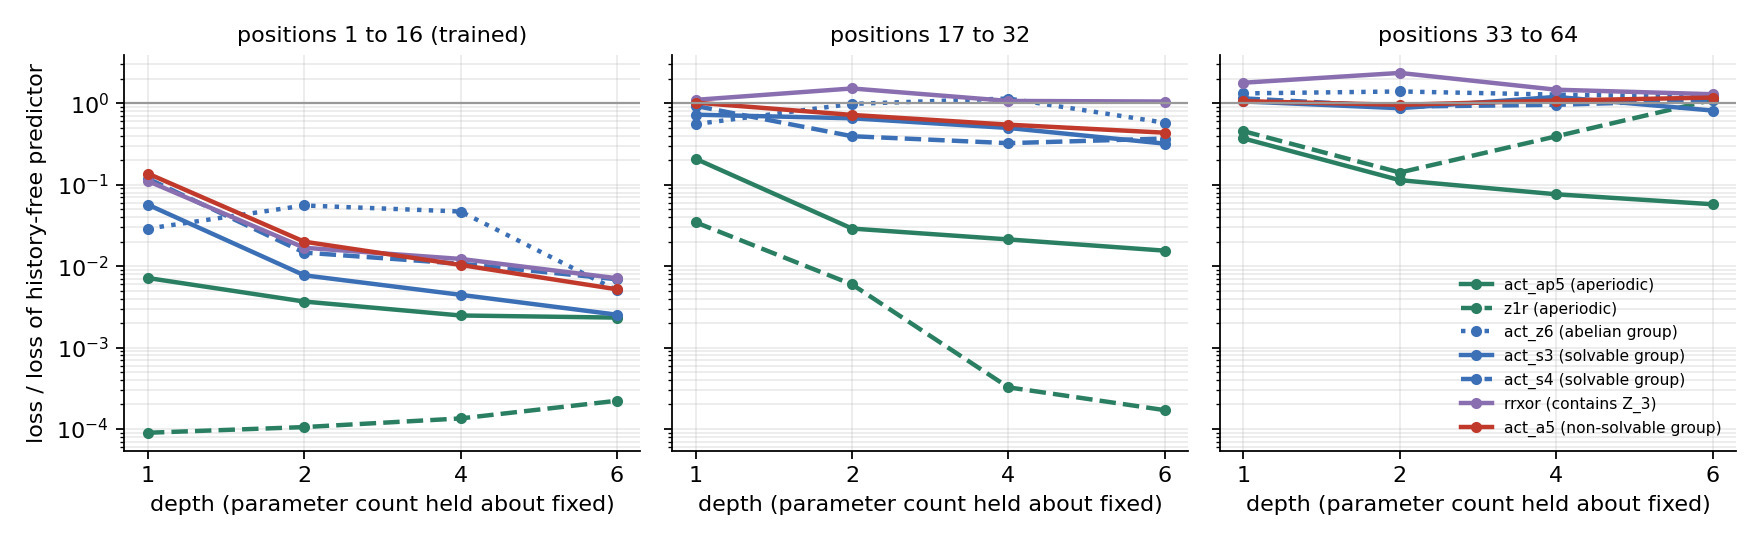
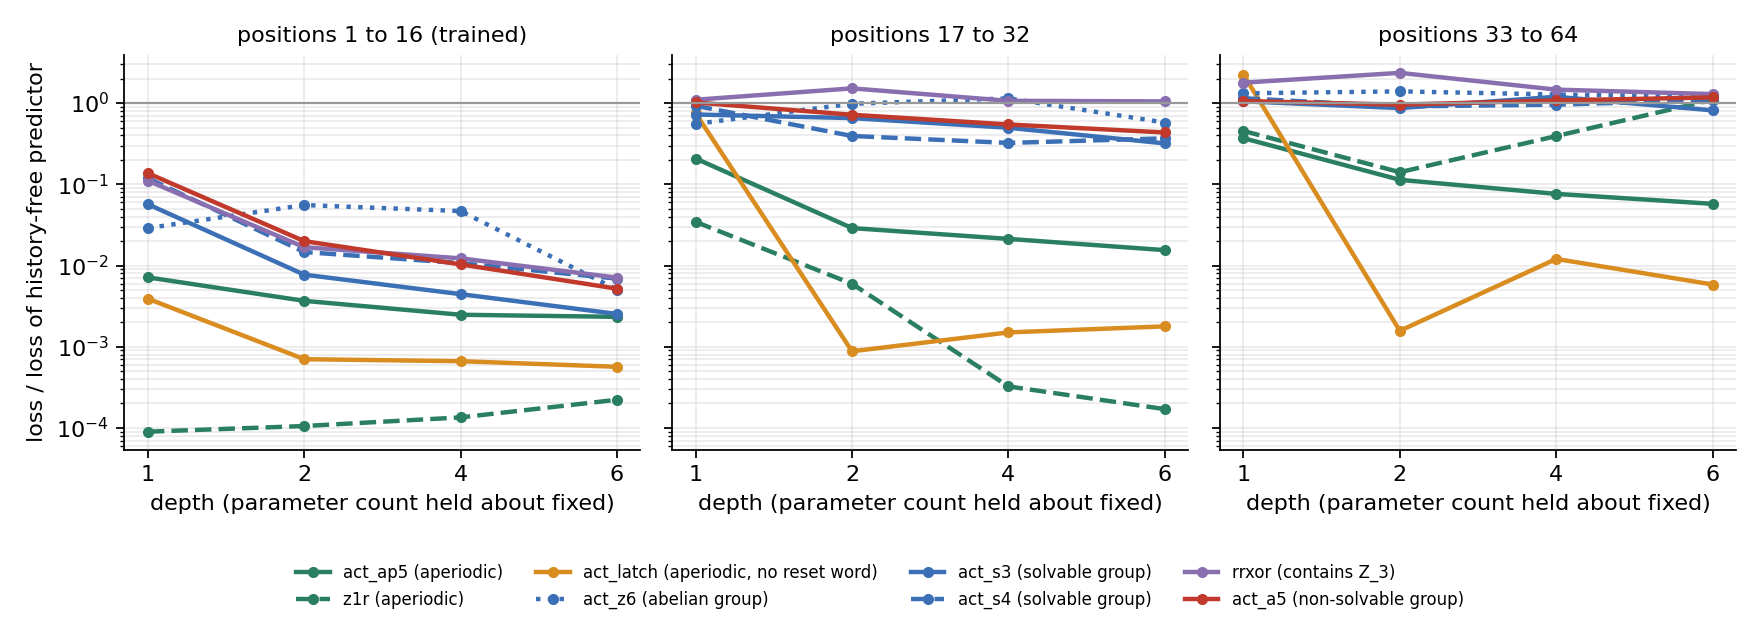
Reframe the paper around the experiment and add two follow-up results
The abstract, introduction and contributions now state what the experiment
found. Section 11 adds a process that is aperiodic with no synchronising word,
which generalises in length like the other aperiodic processes, with a short
proof that such a process cannot be strongly connected. It also adds runs
trained on 64 symbols, which show the same split and no gap between A5 and
the solvable groups.

diff --git a/Lattice/main.tex b/Lattice/main.tex
@@ -70,8 +70,14 @@ $S_p$ is determined by the pattern of possible words alone.  The
 lattice of congruences of $S_p$, the invariant this work began from,
 is also inherited, as an interval, but it is non-distributive already
 for first order Markov chains predicted by storing the last symbol,
-and certifies nothing about internal representations.  Whether
-trained networks represent $S_p$ is not addressed.
+and certifies nothing about internal representations.  We then test
+what training finds.  Small transformers trained to predict processes
+chosen by the class of $S_p$ keep predicting beyond the trained
+length when $S_p$ is aperiodic, including for a process with no
+synchronising word, and stop when $S_p$ is a group; solvable and
+non-solvable groups are not distinguishable.  Linear readouts of
+their activations recover the predictive state and not the element of
+$S_p$ of a stretch of input.
 \end{abstract}
 
 
@@ -137,9 +143,28 @@ Section~\ref{sec:controllers} states the one hypothesis under which a
 controller inherits the same structure and why optimality does not
 supply it.  No claim is made that a neural network's raw hidden state
 is automatically a linear realisation, or that any of this locates
-features in activations.  Whether trained networks represent the
-elements of $S_p$, or only their effect on the current state, is an
-empirical question this paper does not address.
+features in activations.
+
+Whether trained networks represent the elements of $S_p$, or only
+their effect on the current state, and whether the class of $S_p$
+says anything about what training finds, are empirical questions.
+Section~\ref{sec:experiment} reports an experiment on both, with
+small transformers trained on short histories of processes chosen by
+their monoid.  Three things come out.  The models keep predicting
+beyond the trained length when $S_p$ is aperiodic and stop when $S_p$
+is a group, and this is aperiodicity and not the presence of a reset
+word, since a process that is aperiodic with no synchronising word
+behaves like the other aperiodic ones.  The line between solvable
+and non-solvable groups, which is where the complexity theorem puts
+its conditional impossibility, is not visible: $A_5$ is no harder
+than $S_3$, $S_4$ or $\mathbb Z_2\times\mathbb Z_3$.  And the
+networks hold the predictive state and almost nothing else; a linear
+readout finds no more of the element $\tau_w$ than the states and the
+literal symbols already give.  So the dichotomy that training
+respects is the coarsest one in Table~\ref{tab:classes}, between
+$\mathrm{AC}^0$ and everything above it, and $S_p$ is present in
+these networks as the monoid of the update they compute and not as a
+represented quantity.
 
 The state level foundations are classical: identification of histories
 by their conditional future laws, with any equally predictive rival
@@ -201,7 +226,12 @@ The contributions are:
   \item a scope limit on the congruence lattice: its inherited
         interval is non-distributive generically and is not a
         certificate of entangled features
-        (Section~\ref{sec:congruence}).
+        (Section~\ref{sec:congruence}),
+  \item an experiment on trained transformers, with processes built
+        to have a prescribed monoid: length generalisation follows
+        aperiodicity of $S_p$ and not synchronisation or solvability,
+        and the activations encode states and not monoid elements
+        (Section~\ref{sec:experiment}).
 \end{enumerate}
 All code supporting the computations, exact and reproducible, is
 available in the paper's repository \cite{DovetailRepo}.
@@ -2035,12 +2065,29 @@ probability $\tfrac1{10}+\tfrac8{10}\cdot\tfrac{x}{n-1}$ and $1$
 otherwise, then moves to $g_o(x)$ for the emitted symbol $o$.  Every
 word is possible and the next-symbol laws of distinct points differ,
 so when every point is reachable $X_p$ is the set of points and $S_p$
-is the monoid generated by $g_0,g_1$.  We use five such processes,
+is the monoid generated by $g_0,g_1$.  We use six such processes,
 chosen by their monoid, together with two standard ones, Z1R and
 RRXOR \cite{ShaiEtAl2024}.  Table~\ref{tab:a2-lg} lists them; the
 sizes are computed exactly.  The group cases all satisfy the
 hypothesis of Theorem~\ref{thm:pred-complexity}(ii), and $A_5$ that
 of (iii).
+
+One of the six separates two properties that otherwise coincide.  The
+clamped walk and Z1R are aperiodic and also have synchronising words,
+after which the state is known whatever came before; the group
+processes have neither property.  An aperiodic process with no
+synchronising word cannot be strongly connected.  Indeed, let $M$ be
+a finite aperiodic transformation monoid in which every point can be
+moved to every other, and let $e$ be an idempotent of minimum rank.
+Then $eMe=\{e\}$, because it is a group in an aperiodic monoid.  For
+$y,y'$ in the image of $e$ choose $m$ with $m(y)=y'$; then
+$y=e(y)=eme(y)=e(y')=y'$, so $e$ is constant.  The \emph{latched}
+process therefore has a transient part: on six points,
+$g_0=(1,2,2,2,4,4)$ and $g_1=(0,4,3,3,5,5)$ as lists of images.  The
+symbol after the first $0$ selects one of the components $\{2,3\}$
+and $\{4,5\}$, and inside a component the state is the last symbol.
+Its monoid has $15$ elements, is aperiodic, and has minimum rank $2$:
+no word erases which component was chosen.
 
 \paragraph{Training.}
 A causal transformer reads a start token followed by sampled symbols
@@ -2050,8 +2097,9 @@ step.  Positions are learned embeddings, shifted by a random offset
 during training so that every position up to $96$ is trained.  Depths
 are $1,2,4,6$ with widths $128,92,64,52$, which keeps the parameter
 count between $2.0\times10^5$ and $2.1\times10^5$.  There are four
-seeds for each process and depth, $112$ models in all, each trained
-for $30{,}000$ steps.  The loss we report is the exact
+seeds for each process and depth, $128$ models in all, each trained
+for $30{,}000$ steps; a further $32$ models trained on $64$ symbols
+are described below.  The loss we report is the exact
 Kullback--Leibler divergence from $n_p(u)$ to the model's prediction,
 averaged over sampled histories $u$, divided by the same divergence
 for the best predictor that ignores the history.  A value of $0$ is
@@ -2063,14 +2111,23 @@ positions $1$ to $16$, which were trained, and at $17$ to $32$ and
 $33$ to $64$, which were not.  Every model predicts well at trained
 lengths, and deeper models predict better.  Beyond the trained
 length the processes split by whether $S_p$ is aperiodic.  At
-positions $17$ to $32$ all $32$ models of the two aperiodic processes
-have loss below $0.5$, with median $0.015$; of the $64$ models of the
-four group processes $25$ do, with median $0.57$ and minimum $0.28$
-(Mann--Whitney $p<10^{-14}$).  At positions $33$ to $64$ no group
-model is below $0.73$ and the median is $1.08$: at four times the
-trained length the group models are no better than ignoring the
-input.  RRXOR, whose monoid contains $\mathbb Z_3$, behaves like the
-groups.
+positions $17$ to $32$, $44$ of the $48$ models of the three
+aperiodic processes have loss below $0.5$, with median $0.013$, and
+the four exceptions are the latched process at depth $1$; of the $64$
+models of the four group processes $25$ do, with median $0.57$ and
+minimum $0.28$ (Mann--Whitney $p<10^{-14}$).  At positions $33$ to
+$64$ no group model is below $0.73$ and the median is $1.08$: at four
+times the trained length the group models are no better than ignoring
+the input.  RRXOR, whose monoid contains $\mathbb Z_3$, behaves like
+the groups.
+
+The latched process says which property this is.  It has no
+synchronising word, and from depth $2$ it generalises better than
+either process that has one: all twelve models are below $0.1$ at
+positions $33$ to $64$, and eight are below $0.01$.  So a reset word
+is not what the aperiodic models rely on.  At depth $1$ the latched
+models fail beyond the trained length, with loss $0.75$ at positions
+$17$ to $32$, the only aperiodic case that does.
 
 Two predictions one might draw from Table~\ref{tab:classes} are not
 borne out.  First, the solvable groups do not behave differently
@@ -2089,6 +2146,40 @@ depths \cite{LiuEtAl2023}.  The line that training respects here is
 the one between $\mathrm{AC}^0$ and its complement, not the one
 between solvable and non-solvable groups.
 
+A longer trained length does not change this.  We retrained the
+clamped walk, $S_3$, $S_4$ and $A_5$ at depths $2$ and $6$ on
+histories of $64$ symbols, four seeds each, and evaluated to $256$
+(Table~\ref{tab:a2-long}).  At positions $65$ to $128$ every model of
+the clamped walk is below $0.19$ and every group model is above
+$0.37$; at positions $129$ to $256$ the group models are again no
+better than ignoring the input.  No gap opens between $A_5$ and the
+solvable groups: beyond the trained length they are not
+distinguishable at either depth (Mann--Whitney $p>0.4$ in all four
+comparisons).  Within the trained length the loss rises with the
+size of the group, from $0.02$ for $S_3$ to $0.07$ for $A_5$ at depth
+$2$, which is an ordering by size and not by solvability.  The
+clamped walk also degrades at four times this trained length, to
+$0.34$ at depth $6$.
+
+\begin{table}[ht]
+\centering
+\small
+\begin{tabular}{lcc}
+\hline
+Process & depth 2 & depth 6\\
+\hline
+clamped walk on 5 points & .00 / .15 / .55 & .00 / .05 / .34\\
+$S_3$ on 3 points & .02 / .86 / 1.18 & .02 / .61 / 1.09\\
+$S_4$ on 4 points & .06 / .70 / .93 & .04 / .66 / 1.11\\
+$A_5$ on 5 points & .07 / .80 / 1.10 & .05 / .64 / 1.21\\
+\hline
+\end{tabular}
+\caption{Models trained on $64$ symbols: loss relative to the
+history-free predictor at positions $1$ to $64$ / $65$ to $128$ /
+$129$ to $256$, median of four seeds.}
+\label{tab:a2-long}
+\end{table}
+
 The aperiodic case has its own limit.  For the clamped walk the loss
 at positions $33$ to $64$ falls steadily with depth, to $0.06$.  For
 Z1R it is exact at positions $17$ to $32$ from depth $4$, but at
@@ -2106,6 +2197,8 @@ clamped walk on 5 points & aperiodic & 5 & 35 &
   .21 / .37 & .03 / .11 & .02 / .08 & .02 / .06\\
 Z1R & aperiodic & 7 & 14 &
   .03 / .45 & .01 / .14 & .00 / .39 & .00 / 1.10\\
+latched process on 6 points & aperiodic, no reset & 6 & 15 &
+  .75 / 2.25 & .00 / .00 & .00 / .01 & .00 / .01\\
 $\mathbb Z_2\times\mathbb Z_3$ on 6 points & abelian & 6 & 6 &
   .55 / 1.32 & .98 / 1.39 & 1.14 / 1.28 & .58 / 1.20\\
 $S_3$ on 3 points & solvable & 3 & 6 &
@@ -2168,9 +2261,9 @@ and the $A_5$ margin at depth $2$ grows steadily through training.
 
 What the deeper networks do contain is the state, and nearly nothing
 else.  At depth $6$ the predictive state is linearly readable with
-accuracy $0.94$ to $0.99$ in the five constructed processes, and
-the share of residual variance not explained by the state is between
-$1\%$ and $7\%$.  Clustering the final residuals into $|X_p|$
+accuracy $0.94$ to $1.00$ in the six constructed processes, and
+the share of residual variance not explained by the state is at most
+$7\%$.  Clustering the final residuals into $|X_p|$
 clusters and reading off the map from a cluster and a symbol to the
 next cluster gives, for $A_5$, $S_3$ and
 $\mathbb Z_2\times\mathbb Z_3$ at depth $6$, a deterministic
@@ -2194,6 +2287,7 @@ Process & classes & readout & states & regrouped
 \hline
 clamped walk & 20 & .90 & .89 & .72 & .95 & .95 & .75\\
 Z1R & 3 & 1.00 & 1.00 & .63 & 1.00 & 1.00 & .69\\
+latched process & 11 & .71 & .73 & .58 & .93 & .89 & .70\\
 $\mathbb Z_2\times\mathbb Z_3$ & 6 & .59 & 1.00 & .47 & .63 & 1.00 & .51\\
 $S_3$ & 6 & .63 & .70 & .67 & .81 & .69 & .80\\
 $S_4$ & 12 & .43 & .62 & .44 & .62 & .62 & .61\\
@@ -2210,12 +2304,11 @@ distinct elements among chunks of the length used.}
 \end{table}
 
 \paragraph{Limits.}
-The networks are small and the trained length is short.  In this set
-of processes aperiodicity coincides with synchronisation: the two
-aperiodic processes have words after which the state is known
-whatever came before, and the group processes have none, so the
-experiment cannot say which of the two properties training responds
-to.  The readouts are linear, and a non-linear code for $\tau_w$
+The networks are small, and the longest trained length is $64$.  The separation of aperiodicity from
+synchronisation rests on one process, and in it what no word erases
+is a single bit fixed near the start of the sequence; a transient
+part of this kind is forced by the argument above, but larger or
+later-set memories of the kind were not tested.  The readouts are linear, and a non-linear code for $\tau_w$
 would not be found.  For $\mathbb Z_2\times\mathbb Z_3$ the element
 is a function of the two states, so that row does not separate the
 hypotheses.  And the experiment concerns predictors that are
